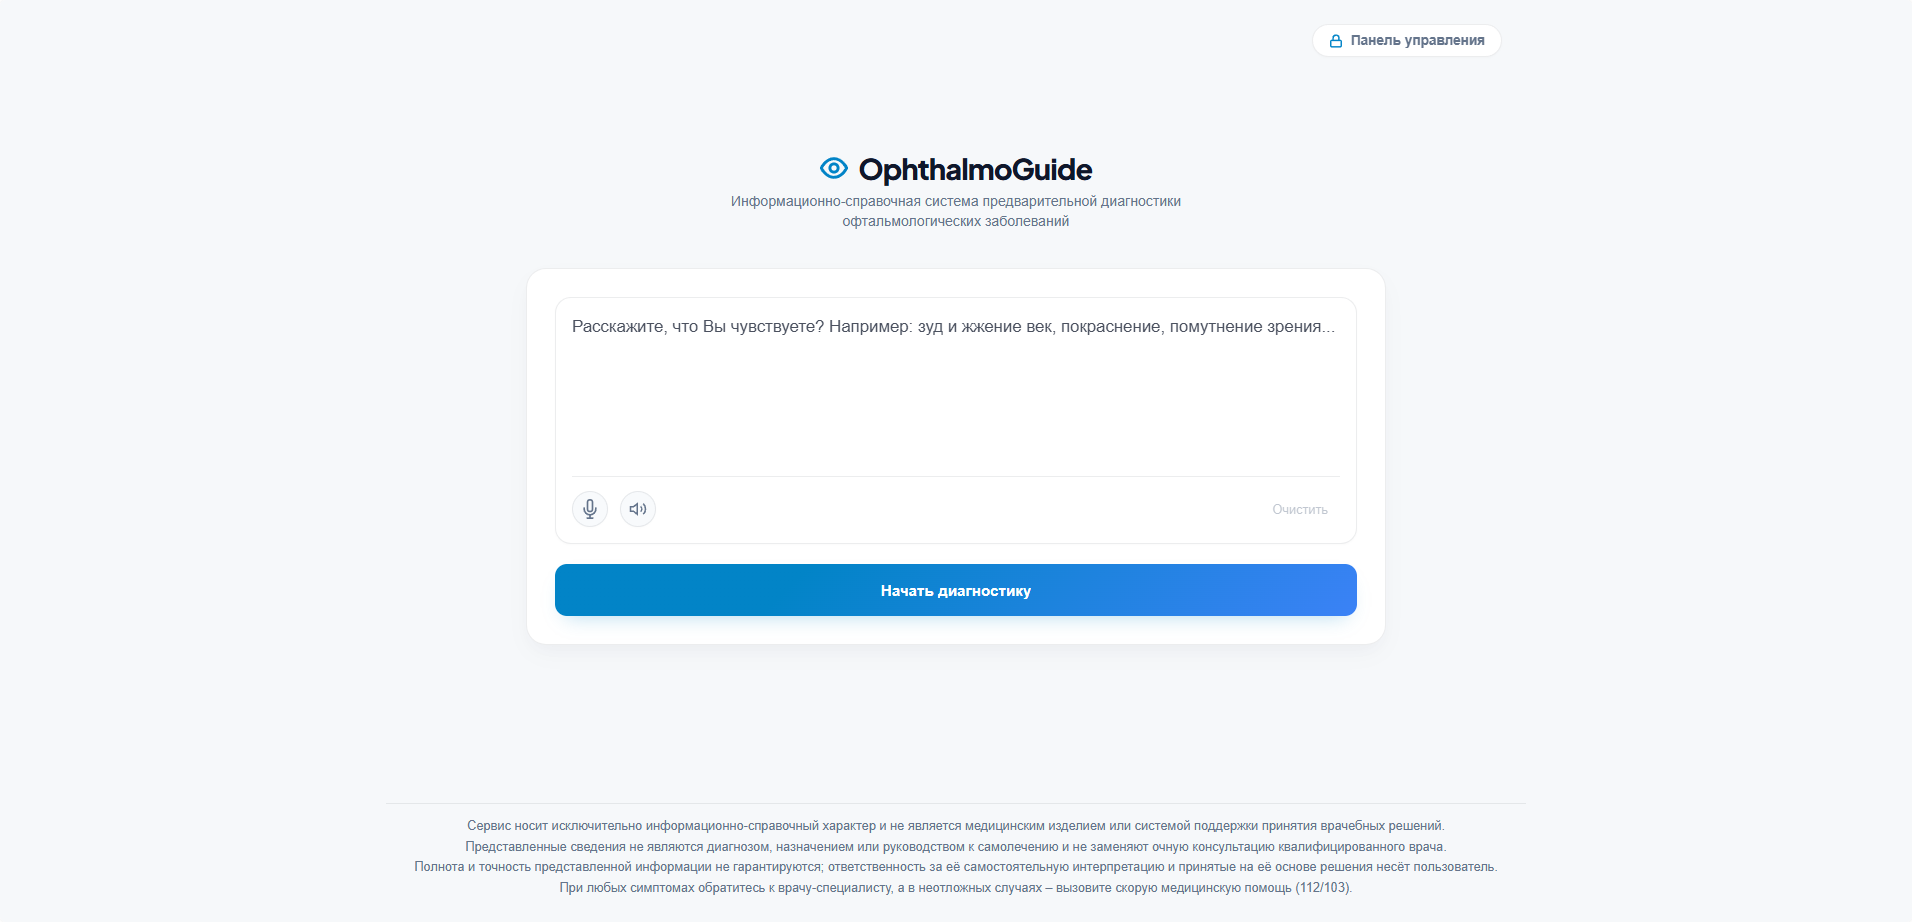
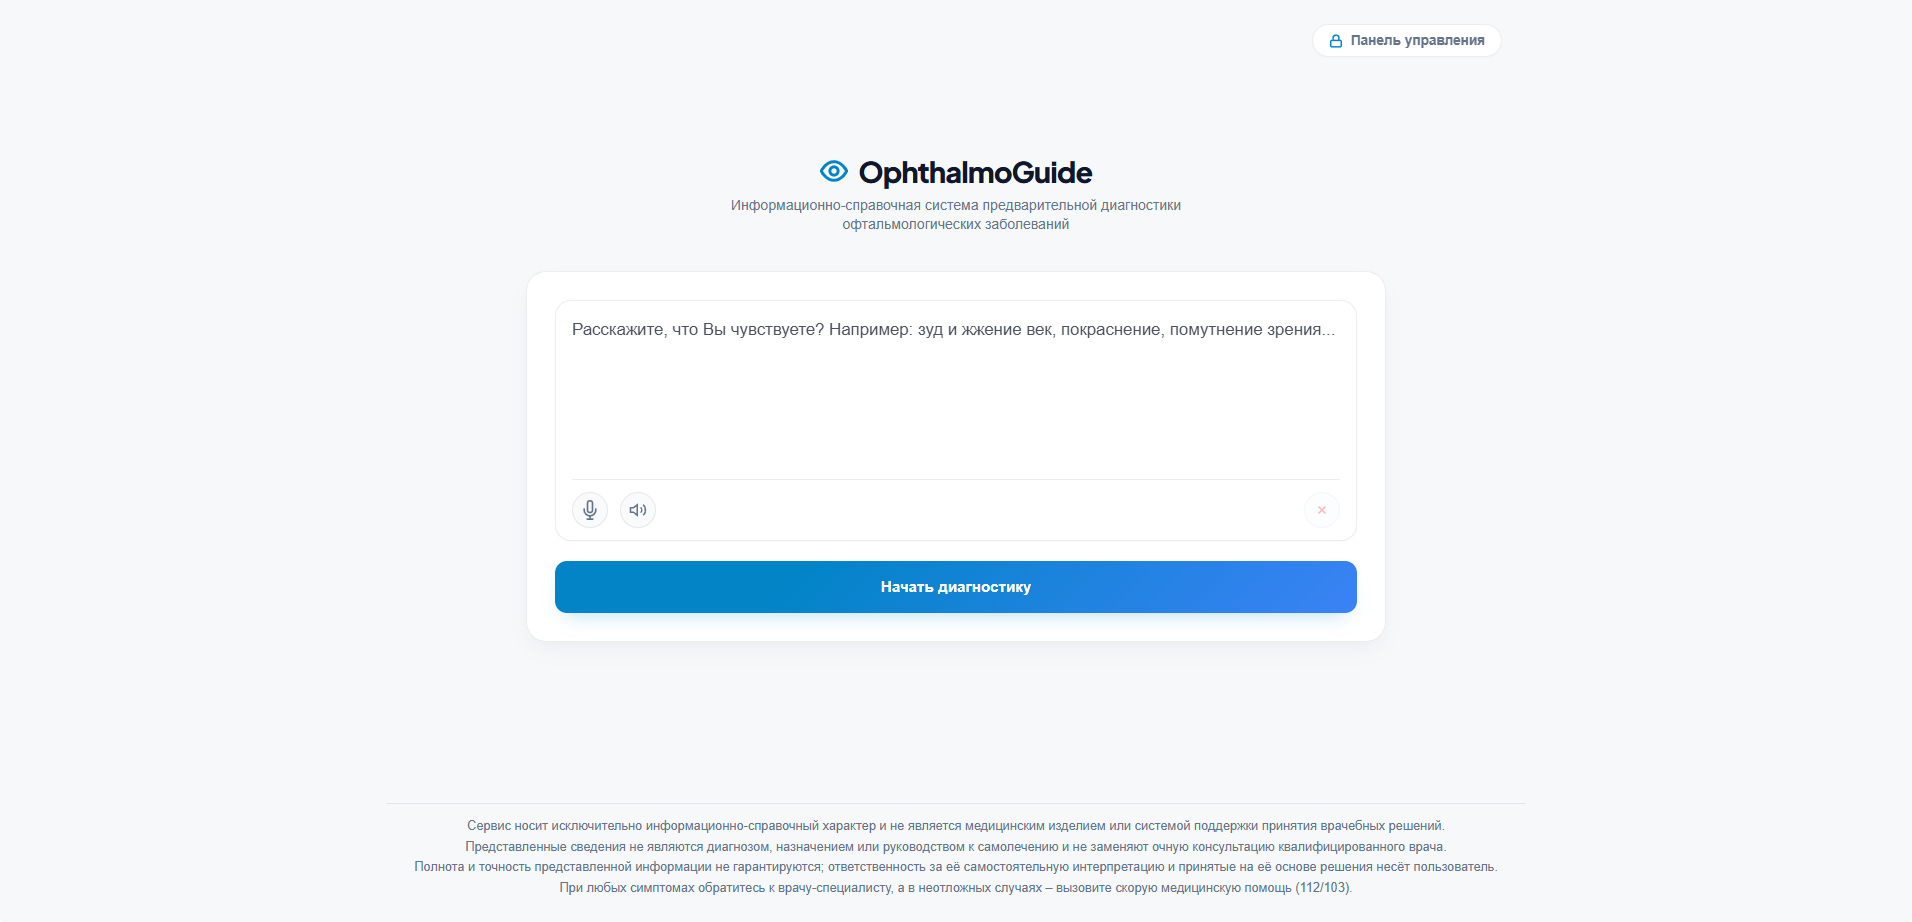
Improve mobile history cards, voice input status overlay, and toolbar controls, update screenshot image 1.png

Changed region(s): [[0.3086, 0.6074, 0.7097, 0.6681], [0.3703, 0.1518, 0.6172, 0.2733], [0.3086, 0.3341, 0.6789, 0.3644]]

diff --git a/frontend/src/App.css b/frontend/src/App.css
@@ -508,6 +508,7 @@ body {
   display: flex;
   flex-direction: column;
   gap: 1.25rem;
+  overflow: visible;
 }
 
 .section-title {
@@ -524,12 +525,13 @@ body {
   background-color: var(--bg-card);
   border: 1.5px solid var(--border-color);
   border-radius: 16px;
-  padding: 1rem;
+  padding: 1rem 1rem 0;
   display: flex;
   flex-direction: column;
   transition: var(--transition-smooth);
   box-shadow: var(--shadow-sm);
   position: relative;
+  overflow: visible;
 }
 
 .textarea-clear-btn {
@@ -565,6 +567,13 @@ body {
   box-shadow: var(--shadow-focus), var(--shadow-md) !important;
 }
 
+.textarea-field-wrap {
+  position: relative;
+  display: flex;
+  flex-direction: column;
+  min-height: 0;
+}
+
 .textarea-container-premium textarea {
   background: none;
   border: none;
@@ -578,6 +587,46 @@ body {
   max-height: 420px;
   overflow-y: auto;
   padding: 0;
+  width: 100%;
+  box-sizing: border-box;
+}
+
+.textarea-container-premium textarea.textarea-with-status {
+  padding-bottom: 2.1rem;
+}
+
+.textarea-status-overlay {
+  position: absolute;
+  left: 0;
+  right: 0;
+  bottom: 0;
+  padding: 0.45rem 0 0.1rem;
+  pointer-events: none;
+  background: linear-gradient(180deg, transparent 0%, var(--bg-card) 48%);
+  font-size: 0.82rem;
+  font-weight: 650;
+  line-height: 1.3;
+  z-index: 2;
+}
+
+.textarea-status-overlay.status-recording {
+  color: var(--color-red);
+  animation: textarea-status-blink-recording 1s ease-in-out infinite;
+}
+
+.textarea-status-overlay.status-recognizing {
+  color: var(--accent);
+  animation: textarea-status-blink-recognizing 1.15s ease-in-out infinite;
+}
+
+@keyframes textarea-status-blink-recording {
+  0%, 100% { opacity: 1; }
+  50% { opacity: 0.4; }
+}
+
+@keyframes textarea-status-blink-recognizing {
+  0%, 100% { opacity: 1; }
+  50% { opacity: 0.45; }
 }
 
 .textarea-container-premium textarea::placeholder {
@@ -616,19 +665,22 @@ body {
   justify-content: space-between;
   align-items: center;
   border-top: 1px solid var(--border-color);
-  padding-top: 0.9rem;
   margin-top: 0.75rem;
+  padding: 0.75rem 0;
   gap: 0.75rem;
-  flex-wrap: nowrap;
+  flex-wrap: wrap;
+  overflow: visible;
 }
 
 .diagnostic-actions-left {
   display: flex;
   align-items: center;
-  flex: 1;
+  flex: 1 1 auto;
   min-width: 0;
-  flex-wrap: nowrap;
+  flex-wrap: wrap;
   gap: 0.75rem;
+  overflow: visible;
+  row-gap: 0.5rem;
 }
 
 .audio-controls-group {
@@ -636,6 +688,9 @@ body {
   align-items: center;
   gap: 0.75rem;
   flex-shrink: 0;
+  padding: 0 6px;
+  margin: 0 -6px;
+  overflow: visible;
 }
 
 /* Clean circular Microphone recording button */
@@ -644,10 +699,15 @@ body {
   align-items: center;
   gap: 0.5rem;
   position: relative;
+  padding: 0 4px;
+  margin: 0 -4px;
+  overflow: visible;
 }
 
 .btn-mic-record-clean {
   position: relative;
+  z-index: 1;
+  flex-shrink: 0;
   width: 36px;
   height: 36px;
   border-radius: 50%;
@@ -733,6 +793,8 @@ body {
 /* Speaker Toggle Button for Auto-readout (TTS) */
 .btn-speaker-auto-play {
   position: relative;
+  z-index: 1;
+  flex-shrink: 0;
   width: 36px;
   height: 36px;
   border-radius: 50%;
@@ -769,6 +831,8 @@ body {
 /* Play/Stop TTS toggle button styling */
 .btn-tts-toggle {
   position: relative;
+  z-index: 1;
+  flex-shrink: 0;
   width: 36px;
   height: 36px;
   border-radius: 50%;
@@ -814,27 +878,40 @@ body {
 }
 
 .btn-clean-text {
-  background: none;
-  border: none;
-  font-size: 0.8rem;
-  color: var(--text-muted);
+  position: relative;
+  z-index: 1;
+  display: inline-flex;
+  align-items: center;
+  justify-content: center;
+  width: 36px;
+  height: 36px;
+  padding: 0;
+  line-height: 0;
+  border-radius: 50%;
+  background-color: var(--bg-card-sub);
+  border: 1px solid var(--border-color);
+  color: var(--color-red, #ef4444);
   cursor: pointer;
-  padding: 0.35rem 0.75rem;
-  border-radius: 6px;
-  font-weight: 500;
   transition: var(--transition-smooth);
+  box-shadow: var(--shadow-sm);
+  outline: none;
   flex-shrink: 0;
-  white-space: nowrap;
+}
+
+.btn-clean-text svg {
+  display: block;
 }
 
 .btn-clean-text:hover:not(:disabled) {
-  color: var(--color-red);
-  background-color: rgba(239, 68, 68, 0.05);
+  color: var(--color-red, #ef4444);
+  background-color: var(--bg-hover);
+  transform: scale(1.05);
 }
 
 .btn-clean-text:disabled {
   opacity: 0.4;
   cursor: not-allowed;
+  transform: none;
 }
 
 /* Preset pills */
@@ -3434,6 +3511,16 @@ body {
   .admin-panel-slide-enter-from {
     transform: none;
   }
+
+  .textarea-status-overlay.status-recording,
+  .textarea-status-overlay.status-recognizing {
+    animation: none;
+    opacity: 1;
+  }
+
+  .btn-clean-text:hover:not(:disabled) {
+    transform: none;
+  }
 }
 
 .nav-tab-logout {
@@ -3536,20 +3623,14 @@ body {
     flex-direction: row;
     align-items: center;
     gap: 0.5rem;
+    overflow: visible;
   }
 
   .diagnostic-actions-left {
     justify-content: flex-start;
-    overflow-x: auto;
-    scrollbar-width: none;
-  }
-
-  .diagnostic-actions-left::-webkit-scrollbar {
-    display: none;
-  }
-
-  .status-tip {
-    white-space: nowrap;
+    flex-wrap: wrap;
+    overflow: visible;
+    row-gap: 0.5rem;
   }
 
   .history-period-filter {

diff --git a/frontend/src/App.vue b/frontend/src/App.vue
@@ -2169,15 +2169,29 @@ onUnmounted(() => {
             
             <!-- Sleek styled textarea wrapper with reactive state borders -->
             <div class="textarea-container-premium" :class="borderStateClass">
-              <textarea 
-                ref="textareaRef"
-                v-model="complaintText" 
-                placeholder="Расскажите, что Вы чувствуете? Например: зуд и жжение век, покраснение, помутнение зрения..."
-                rows="5"
-                :disabled="isAnalyzing"
-                @input="resizeTextarea"
-              ></textarea>
-
+              <div class="textarea-field-wrap">
+                <textarea 
+                  ref="textareaRef"
+                  v-model="complaintText" 
+                  placeholder="Расскажите, что Вы чувствуете? Например: зуд и жжение век, покраснение, помутнение зрения..."
+                  rows="5"
+                  :disabled="isAnalyzing"
+                  :class="{ 'textarea-with-status': isRecording || speechRecognizing }"
+                  @input="resizeTextarea"
+                ></textarea>
+                <div
+                  v-if="isRecording || speechRecognizing"
+                  class="textarea-status-overlay"
+                  :class="{
+                    'status-recording': isRecording,
+                    'status-recognizing': !isRecording && speechRecognizing
+                  }"
+                  aria-live="polite"
+                >
+                  <span v-if="isRecording">Идет запись...</span>
+                  <span v-else>Распознавание...</span>
+                </div>
+              </div>
 
               
               <!-- Bottom Toolbar inside input box -->
@@ -2241,19 +2255,22 @@ onUnmounted(() => {
                     </svg>
                   </button>
 
-                  <span v-if="isRecording" class="status-tip">Идет запись...</span>
-                  <span v-else-if="speechRecognizing" class="status-tip">Распознавание...</span>
                 </div>
 
                 <!-- Clear text button (ONLY the input field).
                      Click the eye logo in the header for full reset (text + analysis result). -->
-                <button 
-                  class="btn-clean-text" 
-                  @click="clearComplaintText" 
+                <button
+                  type="button"
+                  class="btn-clean-text"
+                  @click="clearComplaintText"
                   :disabled="!complaintText || isAnalyzing"
+                  title="Очистить текст жалобы"
                   aria-label="Очистить текст жалобы"
                 >
-                  Очистить
+                  <svg viewBox="0 0 24 24" width="14" height="14" stroke="currentColor" stroke-width="2.5" fill="none" aria-hidden="true">
+                    <line x1="18" y1="6" x2="6" y2="18"></line>
+                    <line x1="6" y1="6" x2="18" y2="18"></line>
+                  </svg>
                 </button>
               </div>
             </div>